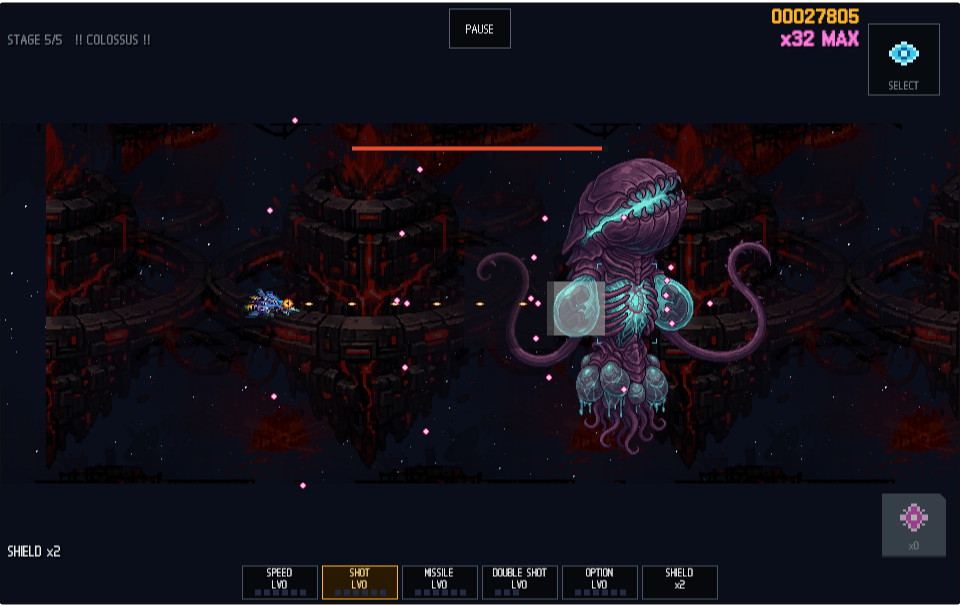
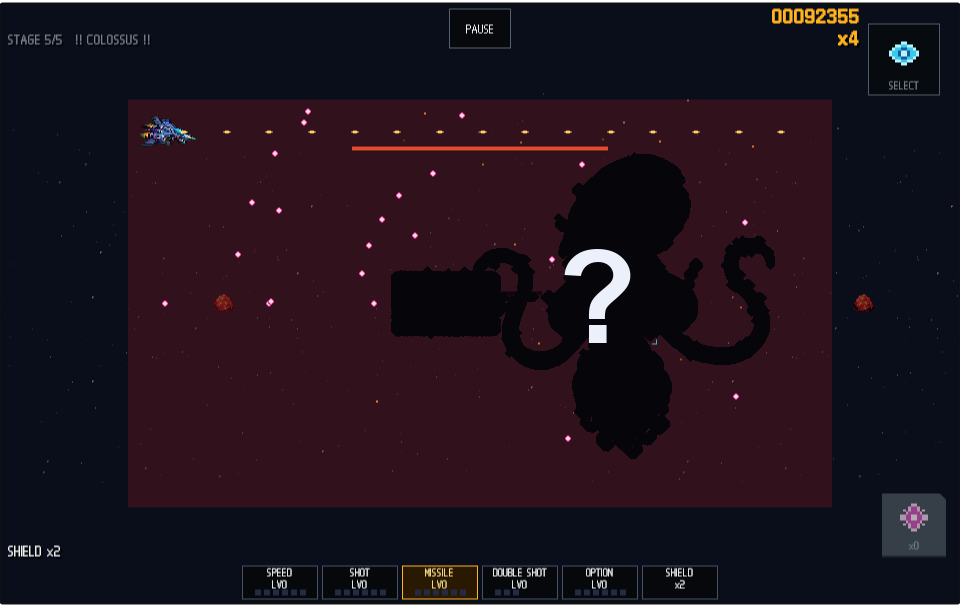
docs: 히든 보스 정체를 가린다 (검은 실루엣 + ?) + 미지의 구역 두 장소 시트
사람 지시: "히든 보스는 실루엣을 검정 +? 표 처리해줘 ㅋㅋ 스포일러잖아".
맞는 지적이다 — 조건 두 개를 채워야 열리는 것을 README 사진 한 장으로 미리
보여 주면 그 보상이 사라진다.

가리는 대상은 좌표가 아니라 **가장 큰 연결 성분**으로 찾는다. 좌표를 박아 두면
시드나 연출이 바뀔 때 엉뚱한 곳을 칠하고 알아차릴 방법이 없다.

여기까지 두 번 틀렸다. 처음엔 밝기 임계가 높아 덩어리 안의 어두운 외곽선에서
연결이 끊겨 **머리만** 칠했다. 틈을 메우자 이번엔 "가장 두꺼운 곳" 기준이
**플레이어 기체**를 골랐다. 크기 기준은 그렇게 흔들리지 않는다.

문서 장면 이름도 고쳤다 — 'leviathan'으로 두었는데 그 시드는 실제로
브루드마더가 나온다. 어차피 정체를 가리므로 중립적인 이름이 맞다.

미지의 구역 시트(abyss/brood)를 추가했다. **화살표는 뺐다** — 화살표는 "다음"을
뜻하는데 이 둘은 순서가 아니라 갈리는 선택지다. 라벨에도 보스 이름을 적지 않는다.

README 전함 설명을 3막 재배치에 맞췄고(아래 갑판 → 위 함저 → 중앙 코어, 전부
스크롤 속도로 걸어서 이동), 미지의 구역이 재탕이 아니라는 것을 적었다.

남겨 둔 것: 본문에는 아직 두 보스의 이름과 시그니처 패턴이 적혀 있다. 사진보다
큰 스포일러일 수 있지만 그건 사람이 쓴 문구라 손대지 않았다.

Claude-Session: https://claude.ai/code/session_01YNEPw7nnTiWdE95p12PrTr

diff --git a/Tools/QaHarness/doc_shots.js b/Tools/QaHarness/doc_shots.js
@@ -39,8 +39,17 @@ const SCENES = [
   // 전함은 막마다 자리와 패턴이 바뀐다 — 한 런에서 세 시점을 찍는다.
   { name: 'warship', query: 'dev=1&god=1&stage=3&warp=boss', seed: 2264451436,
     launch: true, at: [10, 70, 150] },
-  { name: 'leviathan', query: 'dev=1&god=1&uncharted=1&warp=boss', seed: 475252250,
+  // 이름을 'leviathan'으로 두었었는데 이 시드는 실제로 브루드마더가 나온다.
+  // 어차피 합성 단계에서 정체를 가리므로 중립적인 이름이 맞다.
+  { name: 'hidden_boss', query: 'dev=1&god=1&uncharted=1&warp=boss', seed: 475252250,
     launch: true, at: [20] },
+  // 미지의 구역 접근 구간 (REQ-159). 어느 거대 보스가 나오느냐로 **장소 자체가
+  // 갈린다** — 그게 이 두 장의 요점이라 시드를 하나씩 박아 둔다.
+  // (거대 보스도 시드가 정한다. 아래 두 시드는 각각 레비아탄/브루드마더가 나온다.)
+  { name: 'hidden_abyss', query: 'dev=1&god=1&uncharted=1', seed: 1002505124,
+    launch: true, at: [18] },
+  { name: 'hidden_brood', query: 'dev=1&god=1&uncharted=1', seed: 3300877803,
+    launch: true, at: [18] },
 ];
 
 async function capture(browser, scene) {

diff --git a/Tools/QaHarness/compose_docs.py b/Tools/QaHarness/compose_docs.py
@@ -8,7 +8,8 @@
 """
 import os
 
-from PIL import Image, ImageDraw
+import numpy as np
+from PIL import Image, ImageDraw, ImageFont
 
 HERE = os.path.dirname(__file__)
 SRC = os.path.join(HERE, "out", "docs")
@@ -23,12 +24,111 @@ LABEL_COLOR = (226, 232, 240)
 SUB_COLOR = (140, 150, 170)
 
 
+
+def _big_font(size):
+    """굵고 큰 글리프. PIL 기본 폰트는 확대가 안 돼서 물음표가 점처럼 찍힌다."""
+    for name in ("arialbd.ttf", "arial.ttf", "seguisb.ttf", "segoeui.ttf"):
+        try:
+            return ImageFont.truetype(name, size)
+        except OSError:
+            continue
+    return ImageFont.load_default()
+
+
+def redact_boss(image, question_scale=0.42):
+    """히든 보스를 **검은 실루엣 + ?** 로 가린다.
+
+    사람 지시 2026-08-04: "히든 보스는 실루엣을 검정 +? 표 처리해줘 ㅋㅋ
+    스포일러잖아". README는 이 게임을 처음 보는 사람이 읽는 문서다 — 두 거대
+    보스의 정체는 조건 두 개를 채워야 열리는 것이라, 사진 한 장으로 미리
+    보여 주면 그 보상이 사라진다.
+
+    가리는 대상은 좌표가 아니라 **연결 성분**으로 찾는다. 보스는 배경과 확실히
+    다른 색의 커다란 덩어리 하나다 — 가장 밝은 점에서 시작해 배경이 아닌
+    이웃으로 번져 나가면 촉수 끝까지 따라간다. 좌표를 박아 두면 시드나 연출이
+    바뀔 때 엉뚱한 곳을 칠하고, 그것을 알아차릴 방법이 없다.
+    """
+    rgb = np.asarray(image.convert("RGB")).astype(np.int16)
+    h, w = rgb.shape[:2]
+
+    # 배경색 = 화면에서 가장 흔한 색. 그것과 충분히 다른 픽셀만 후보다.
+    flat = (rgb[:, :, 0] // 8 * 1024 + rgb[:, :, 1] // 8 * 32 + rgb[:, :, 2] // 8)
+    background = np.bincount(flat.ravel()).argmax()
+    base = np.array([(background // 1024) * 8 + 4,
+                     (background // 32 % 32) * 8 + 4,
+                     (background % 32) * 8 + 4], dtype=np.int16)
+    foreground = np.abs(rgb - base).sum(axis=2) > 48
+
+    # 덩어리 안의 어두운 외곽선이 연결을 끊는다 — 머리만 칠하고 몸통을 놓친
+    # 적이 있다. 번지기 전에 한 번 닫아(팽창→수축) 그 틈을 메운다.
+    def _dilate(mask, times):
+        for _ in range(times):
+            grown = mask.copy()
+            grown[1:, :] |= mask[:-1, :]
+            grown[:-1, :] |= mask[1:, :]
+            grown[:, 1:] |= mask[:, :-1]
+            grown[:, :-1] |= mask[:, 1:]
+            mask = grown
+        return mask
+
+    foreground = ~_dilate(~_dilate(foreground, 3), 3)
+
+    # HUD(위/아래 띠)는 보스가 아니다 — 성분이 거기까지 번지지 않게 잘라 둔다.
+    margin = int(h * 0.16)
+    foreground[:margin, :] = False
+    foreground[h - margin:, :] = False
+
+    if not foreground.any():
+        return image
+
+    # **가장 큰 연결 성분**을 고른다. 한때는 "가장 두꺼운 곳"에서 번지게 했는데,
+    # 그 기준은 틈을 메우고 나면 플레이어 기체를 골랐다 — 실제로 기체가 검게
+    # 칠해진 사진이 나왔다. 크기는 그런 식으로 흔들리지 않는다.
+    #
+    # 라벨링은 최대값 전파로 한다: 전경 픽셀마다 고유 번호를 주고 이웃 중
+    # 최대값으로 계속 덮어쓰면, 한 성분 안의 픽셀이 전부 같은 번호로 수렴한다.
+    labels = np.where(foreground,
+                      np.arange(h * w, dtype=np.int32).reshape(h, w),
+                      -1)
+    while True:
+        spread = labels.copy()
+        spread[1:, :] = np.maximum(spread[1:, :], labels[:-1, :])
+        spread[:-1, :] = np.maximum(spread[:-1, :], labels[1:, :])
+        spread[:, 1:] = np.maximum(spread[:, 1:], labels[:, :-1])
+        spread[:, :-1] = np.maximum(spread[:, :-1], labels[:, 1:])
+        spread[~foreground] = -1
+        if np.array_equal(spread, labels):
+            break
+        labels = spread
+
+    sizes = np.bincount(labels[foreground].ravel())
+    grown = labels == int(np.argmax(sizes))
+
+    # 실루엣을 조금 부풀려 가장자리 잔여 픽셀까지 덮는다.
+    mask = _dilate(grown, 4)
+
+    out = np.asarray(image.convert("RGB")).copy()
+    out[mask] = (6, 6, 10)
+    result = Image.fromarray(out, "RGB")
+
+    ys, xs = np.nonzero(mask)
+    cx, cy = int(xs.mean()), int(ys.mean())
+    span = min(xs.max() - xs.min(), ys.max() - ys.min())
+    draw = ImageDraw.Draw(result)
+    font = _big_font(max(24, int(span * question_scale)))
+    draw.text((cx, cy), "?", font=font, fill=(236, 240, 250), anchor="mm")
+    return result
+
+
 def load(name):
     return Image.open(os.path.join(SRC, name)).convert("RGB").crop(VIEW)
 
 
-def strip(panels, title, subtitle, out_name, panel_width=680):
-    """가로 스트립 시트. panels = [(이미지, 큰 라벨, 작은 라벨), ...]"""
+def strip(panels, title, subtitle, out_name, panel_width=680, arrow=True):
+    """가로 스트립 시트. panels = [(이미지, 큰 라벨, 작은 라벨), ...]
+
+    arrow=False는 **순서가 아니라 선택지**일 때 쓴다 — 화살표는 "다음"을 뜻하므로
+    둘 중 하나로 갈리는 관계에 붙이면 거짓말이 된다."""
     ratio = (VIEW[3] - VIEW[1]) / (VIEW[2] - VIEW[0])
     pw = panel_width
     ph = int(pw * ratio)
@@ -49,7 +149,7 @@ def strip(panels, title, subtitle, out_name, panel_width=680):
         draw.text((x + 4, head + ph + 10), label, fill=LABEL_COLOR)
         if note:
             draw.text((x + 4, head + ph + 26), note, fill=SUB_COLOR)
-        if index < len(panels) - 1:
+        if arrow and index < len(panels) - 1:
             cy = head + ph // 2
             cx = x + pw + gap // 2
             draw.polygon([(cx - 5, cy - 8), (cx + 6, cy), (cx - 5, cy + 8)],
@@ -72,8 +172,19 @@ def single(name, out_name):
 def main():
     single("title.png", "title.png")
     single("battle_early.png", "battle_early.png")
-    load("leviathan.png").save(os.path.join(DST, "b39_leviathan.png"))
-    print("b39_leviathan.png")
+    # 히든 보스는 정체를 가린다 (사람 지시 2026-08-04 — 스포일러).
+    redact_boss(load("hidden_boss.png")).save(
+        os.path.join(DST, "b39_leviathan.png"))
+    print("b39_leviathan.png (redacted)")
+
+    strip(
+        # 어느 거대 보스가 나오느냐로 **갈리는** 것이지 이어지는 것이 아니다.
+        # 그리고 보스 이름은 적지 않는다 — 사람 지시대로 정체는 가린다.
+        [(load("hidden_abyss.png"), "ABYSS", "a sunken trench, far below the map"),
+         (load("hidden_brood.png"), "BROOD", "inside something alive")],
+        "UNCHARTED - A PLACE, NOT A REMATCH",
+        "WHAT WAITS THERE DECIDES WHERE YOU GO   NO MID-BOSS",
+        "hidden_biomes.png", arrow=False)
 
     strip(
         # 라벨은 영문이다 — PIL 기본 폰트에 한글 글리프가 없어 네모로 찍힌다.
